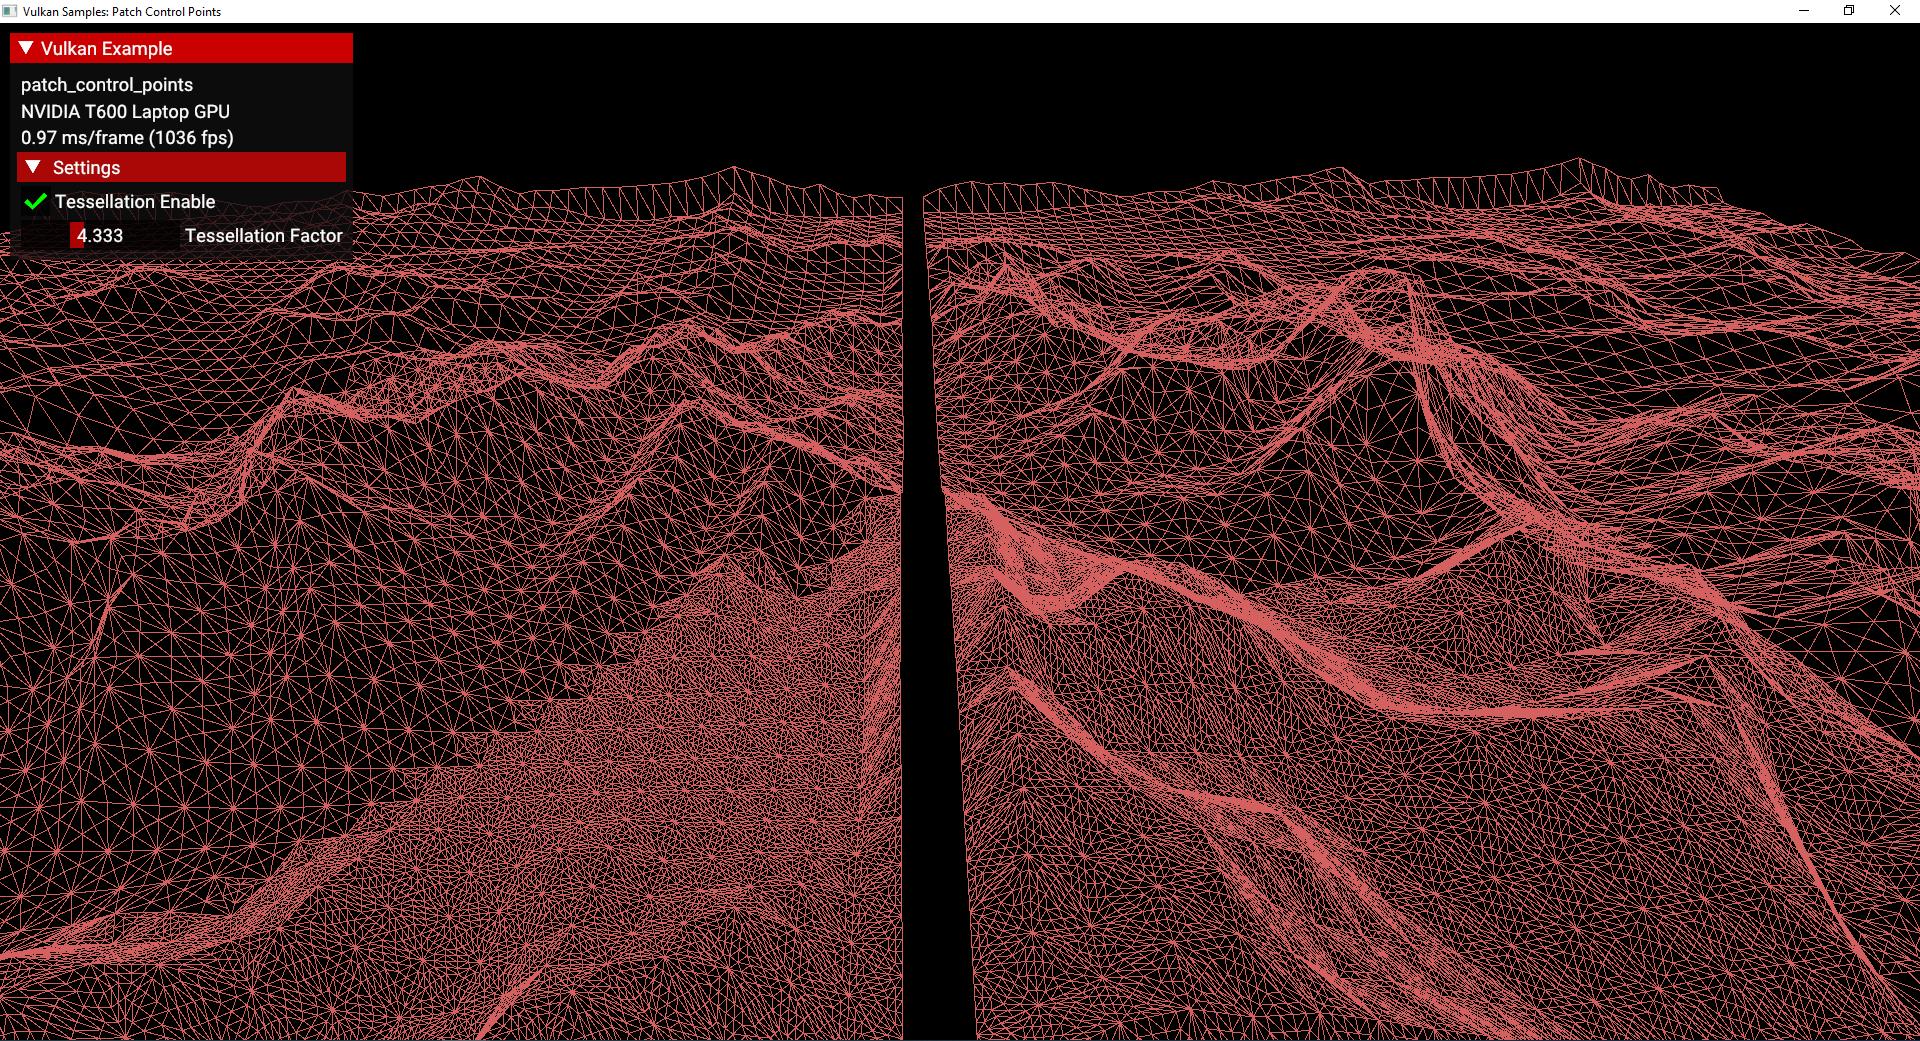
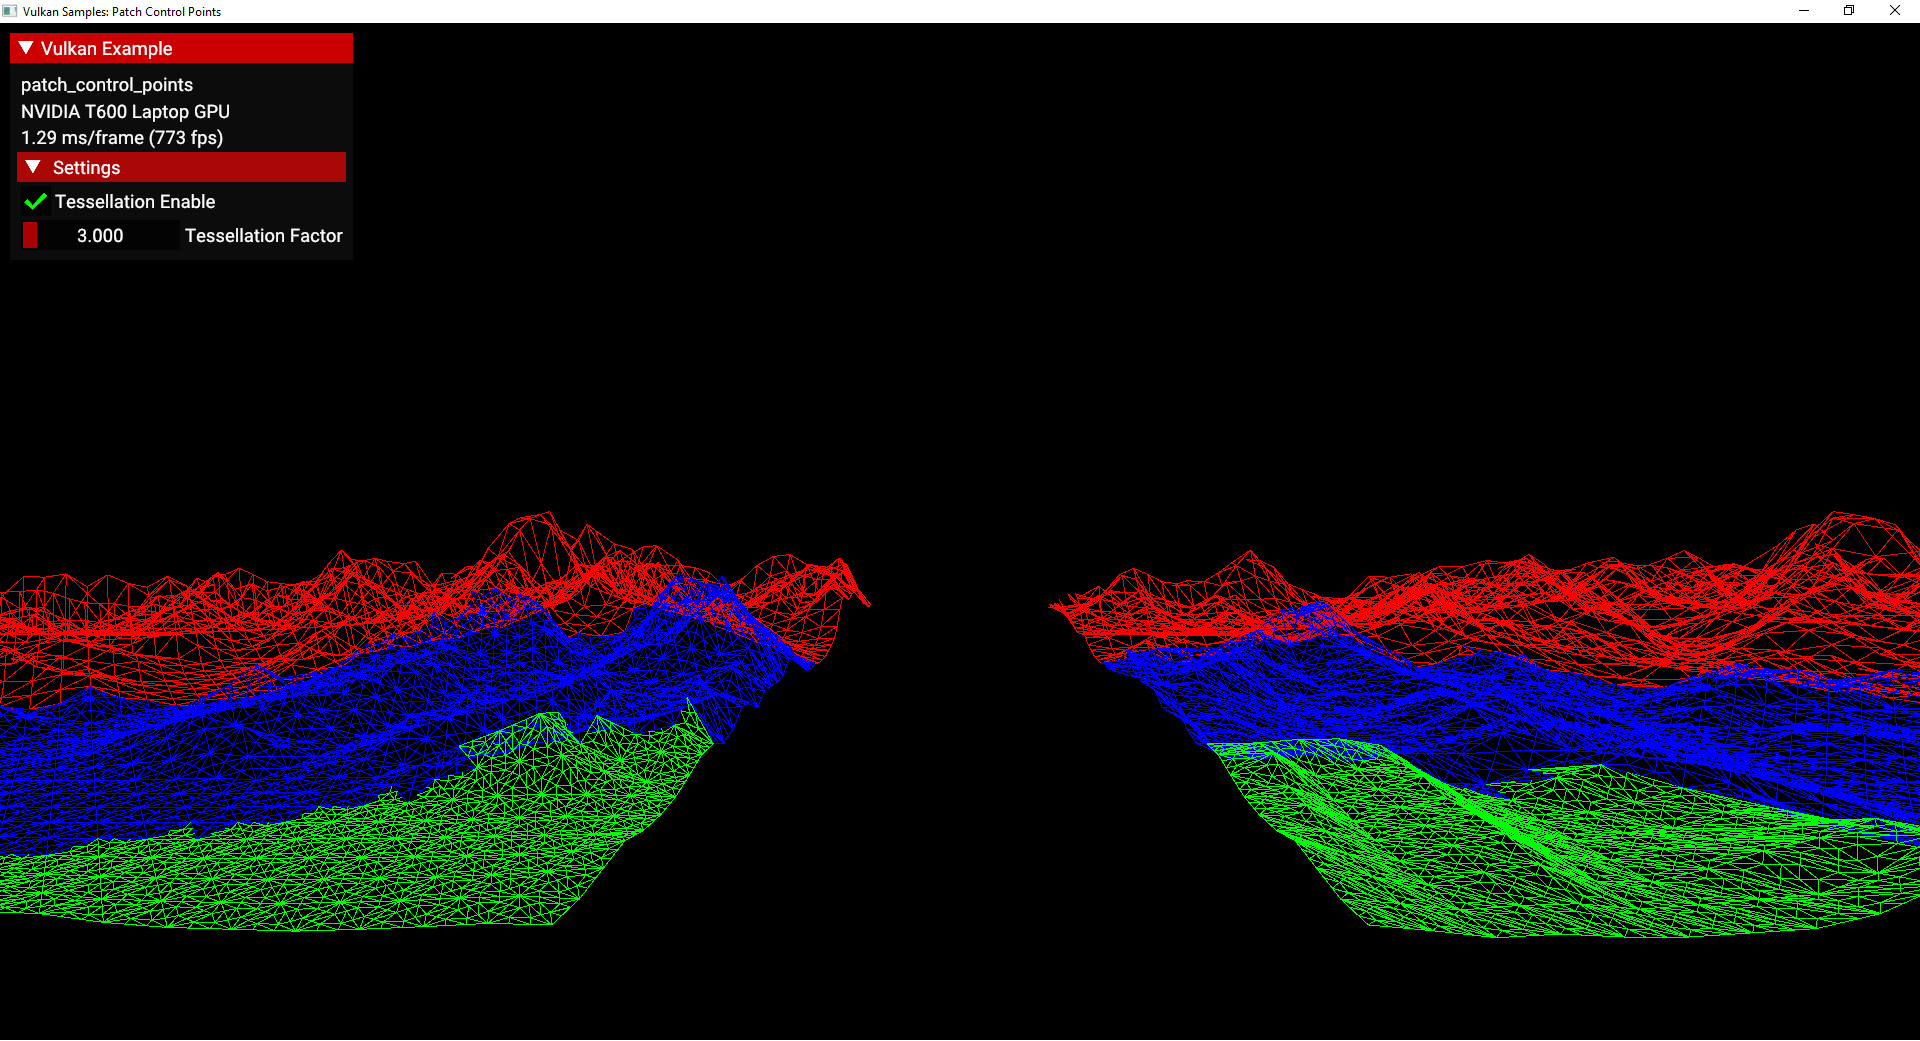
Updating the sample as commented in the review
Image of sample updated
Camera position updated
Tessellation enabled after running sample
Updated dynamically_tessellation and statically_tessellation names
Asset updated

diff --git a/samples/extensions/patch_control_points/patch_control_points.cpp b/samples/extensions/patch_control_points/patch_control_points.cpp
@@ -31,17 +31,17 @@ PatchControlPoints::~PatchControlPoints()
 	if (device)
 	{
 		uniform_buffers.common.reset();
-		uniform_buffers.dynamically_tessellation.reset();
-		uniform_buffers.statically_tessellation.reset();
+		uniform_buffers.dynamic_tessellation.reset();
+		uniform_buffers.static_tessellation.reset();
 
-		vkDestroyPipeline(get_device().get_handle(), pipeline.dynamically_tessellation, VK_NULL_HANDLE);
-		vkDestroyPipeline(get_device().get_handle(), pipeline.statically_tessellation, VK_NULL_HANDLE);
+		vkDestroyPipeline(get_device().get_handle(), pipeline.dynamic_tessellation, VK_NULL_HANDLE);
+		vkDestroyPipeline(get_device().get_handle(), pipeline.static_tessellation, VK_NULL_HANDLE);
 
-		vkDestroyPipelineLayout(get_device().get_handle(), pipeline_layouts.dynamically_tessellation, VK_NULL_HANDLE);
-		vkDestroyPipelineLayout(get_device().get_handle(), pipeline_layouts.statically_tessellation, VK_NULL_HANDLE);
+		vkDestroyPipelineLayout(get_device().get_handle(), pipeline_layouts.dynamic_tessellation, VK_NULL_HANDLE);
+		vkDestroyPipelineLayout(get_device().get_handle(), pipeline_layouts.static_tessellation, VK_NULL_HANDLE);
 
-		vkDestroyDescriptorSetLayout(get_device().get_handle(), descriptor_set_layouts.dynamically_tessellation, VK_NULL_HANDLE);
-		vkDestroyDescriptorSetLayout(get_device().get_handle(), descriptor_set_layouts.statically_tessellation, VK_NULL_HANDLE);
+		vkDestroyDescriptorSetLayout(get_device().get_handle(), descriptor_set_layouts.dynamic_tessellation, VK_NULL_HANDLE);
+		vkDestroyDescriptorSetLayout(get_device().get_handle(), descriptor_set_layouts.static_tessellation, VK_NULL_HANDLE);
 
 		vkDestroyDescriptorPool(get_device().get_handle(), descriptor_pool, VK_NULL_HANDLE);
 	}
@@ -59,7 +59,7 @@ bool PatchControlPoints::prepare(vkb::Platform &platform)
 	}
 
 	camera.type = vkb::CameraType::FirstPerson;
-	camera.set_position({-1.25f, 0.0f, 0.0f});
+	camera.set_position({-1.25f, -0.75f, 1.5f});
 	camera.set_perspective(60.0f, static_cast<float>(width) / static_cast<float>(height), 256.0f, 0.1f);
 
 	load_assets();
@@ -122,11 +122,11 @@ void PatchControlPoints::prepare_uniform_buffers()
                                                                  sizeof(ubo_common),
                                                                  VK_BUFFER_USAGE_UNIFORM_BUFFER_BIT,
                                                                  VMA_MEMORY_USAGE_CPU_TO_GPU);
-	uniform_buffers.dynamically_tessellation = std::make_unique<vkb::core::Buffer>(get_device(),
+	uniform_buffers.dynamic_tessellation = std::make_unique<vkb::core::Buffer>(get_device(),
 	                                                                               sizeof(ubo_tess),
 	                                                                               VK_BUFFER_USAGE_UNIFORM_BUFFER_BIT,
 	                                                                               VMA_MEMORY_USAGE_CPU_TO_GPU);
-	uniform_buffers.statically_tessellation  = std::make_unique<vkb::core::Buffer>(get_device(),
+	uniform_buffers.static_tessellation  = std::make_unique<vkb::core::Buffer>(get_device(),
                                                                                   sizeof(ubo_tess),
                                                                                   VK_BUFFER_USAGE_UNIFORM_BUFFER_BIT,
                                                                                   VMA_MEMORY_USAGE_CPU_TO_GPU);
@@ -153,10 +153,10 @@ void PatchControlPoints::update_uniform_buffers()
 	}
 
 	/* Dynamically tessellation */
-	uniform_buffers.dynamically_tessellation->convert_and_update(ubo_tess);
+	uniform_buffers.dynamic_tessellation->convert_and_update(ubo_tess);
 
 	/* Statically tessellation */
-	uniform_buffers.statically_tessellation->convert_and_update(ubo_tess);
+	uniform_buffers.static_tessellation->convert_and_update(ubo_tess);
 }
 
 /**s
@@ -264,31 +264,31 @@ void PatchControlPoints::create_pipelines()
 	graphics_create.stageCount          = static_cast<uint32_t>(shader_stages.size());
 	graphics_create.pStages             = shader_stages.data();
 
-	/* Specific setup of statically_tessellation pipeline */
+	/* Specific setup of static_tessellation pipeline */
 
 	constexpr uint32_t                    patch_control_points = 3;
 	VkPipelineTessellationStateCreateInfo tessellation_state =
 	    vkb::initializers::pipeline_tessellation_state_create_info(patch_control_points); /* static patch control points */
 	graphics_create.pTessellationState = &tessellation_state;
-	graphics_create.layout             = pipeline_layouts.statically_tessellation;
+	graphics_create.layout             = pipeline_layouts.static_tessellation;
 
-	VK_CHECK(vkCreateGraphicsPipelines(get_device().get_handle(), pipeline_cache, 1, &graphics_create, VK_NULL_HANDLE, &pipeline.statically_tessellation));
+	VK_CHECK(vkCreateGraphicsPipelines(get_device().get_handle(), pipeline_cache, 1, &graphics_create, VK_NULL_HANDLE, &pipeline.static_tessellation));
 
-	/* Specific setup of dynamically_tessellation pipeline  */
+	/* Specific setup of dynamic_tessellation pipeline  */
 
 	/*
 	 * patchControlPoints might be set with any valid value i.e. 0 < patchControlPoints <= 32
 	 * because it is set dynamically using vkCmdSetPatchControlPointsEXT
 	 */
 	tessellation_state.patchControlPoints = 1; /* set to 1 to demonstrate that value from vkCmdSetPatchControlPointsEXT is used */
-	graphics_create.layout                = pipeline_layouts.dynamically_tessellation;
+	graphics_create.layout                = pipeline_layouts.dynamic_tessellation;
 
 	/* Add patch control points dynamic state */
 	dynamic_state_enables.push_back(VK_DYNAMIC_STATE_PATCH_CONTROL_POINTS_EXT);
 	dynamic_state.pDynamicStates    = dynamic_state_enables.data();
 	dynamic_state.dynamicStateCount = static_cast<uint32_t>(dynamic_state_enables.size());
 
-	VK_CHECK(vkCreateGraphicsPipelines(get_device().get_handle(), pipeline_cache, 1, &graphics_create, VK_NULL_HANDLE, &pipeline.dynamically_tessellation));
+	VK_CHECK(vkCreateGraphicsPipelines(get_device().get_handle(), pipeline_cache, 1, &graphics_create, VK_NULL_HANDLE, &pipeline.dynamic_tessellation));
 }
 
 /**
@@ -333,44 +333,44 @@ void PatchControlPoints::build_command_buffers()
 
 		vkCmdBindDescriptorSets(draw_cmd_buffer,
 		                        VK_PIPELINE_BIND_POINT_GRAPHICS,
-		                        pipeline_layouts.statically_tessellation,
+		                        pipeline_layouts.static_tessellation,
 		                        0,
 		                        1,
-		                        &descriptor_sets.statically_tessellation,
+		                        &descriptor_sets.static_tessellation,
 		                        0,
 		                        nullptr);
 
 		push_const_block.direction = directions[0];
 		vkCmdPushConstants(draw_cmd_buffer,
-		                   pipeline_layouts.statically_tessellation,
+		                   pipeline_layouts.static_tessellation,
 		                   VK_SHADER_STAGE_VERTEX_BIT,
 		                   0,
 		                   sizeof(push_const_block),
 		                   &push_const_block);
 
-		vkCmdBindPipeline(draw_cmd_buffer, VK_PIPELINE_BIND_POINT_GRAPHICS, pipeline.statically_tessellation);
+		vkCmdBindPipeline(draw_cmd_buffer, VK_PIPELINE_BIND_POINT_GRAPHICS, pipeline.static_tessellation);
 
 		draw_model(model, draw_cmd_buffer);
 
 		//	dynamically tessellation
 		vkCmdBindDescriptorSets(draw_cmd_buffer,
 		                        VK_PIPELINE_BIND_POINT_GRAPHICS,
-		                        pipeline_layouts.dynamically_tessellation,
+		                        pipeline_layouts.dynamic_tessellation,
 		                        0,
 		                        1,
-		                        &descriptor_sets.dynamically_tessellation,
+		                        &descriptor_sets.dynamic_tessellation,
 		                        0,
 		                        nullptr);
 
 		push_const_block.direction = directions[1];
 		vkCmdPushConstants(draw_cmd_buffer,
-		                   pipeline_layouts.dynamically_tessellation,
+		                   pipeline_layouts.dynamic_tessellation,
 		                   VK_SHADER_STAGE_VERTEX_BIT,
 		                   0,
 		                   sizeof(push_const_block),
 		                   &push_const_block);
 
-		vkCmdBindPipeline(draw_cmd_buffer, VK_PIPELINE_BIND_POINT_GRAPHICS, pipeline.dynamically_tessellation);
+		vkCmdBindPipeline(draw_cmd_buffer, VK_PIPELINE_BIND_POINT_GRAPHICS, pipeline.dynamic_tessellation);
 
 		vkCmdSetPatchControlPointsEXT(draw_cmd_buffer, patch_control_points);
 
@@ -432,11 +432,11 @@ void PatchControlPoints::setup_descriptor_set_layout()
 	VK_CHECK(vkCreateDescriptorSetLayout(get_device().get_handle(),
 	                                     &descriptor_layout_create_info,
 	                                     nullptr,
-	                                     &descriptor_set_layouts.statically_tessellation));
+	                                     &descriptor_set_layouts.static_tessellation));
 
 	VkPipelineLayoutCreateInfo pipeline_layout_create_info =
 	    vkb::initializers::pipeline_layout_create_info(
-	        &descriptor_set_layouts.statically_tessellation,
+	        &descriptor_set_layouts.static_tessellation,
 	        1);
 
 	/* Pass scene node information via push constants */
@@ -449,7 +449,7 @@ void PatchControlPoints::setup_descriptor_set_layout()
 	VK_CHECK(vkCreatePipelineLayout(get_device().get_handle(),
 	                                &pipeline_layout_create_info,
 	                                nullptr,
-	                                &pipeline_layouts.statically_tessellation));
+	                                &pipeline_layouts.static_tessellation));
 
 	/* Second descriptor set */
 	set_layout_bindings = {
@@ -469,15 +469,15 @@ void PatchControlPoints::setup_descriptor_set_layout()
 	VK_CHECK(vkCreateDescriptorSetLayout(get_device().get_handle(),
 	                                     &descriptor_layout_create_info,
 	                                     nullptr,
-	                                     &descriptor_set_layouts.dynamically_tessellation));
+	                                     &descriptor_set_layouts.dynamic_tessellation));
 
-	pipeline_layout_create_info.pSetLayouts = &descriptor_set_layouts.dynamically_tessellation;
+	pipeline_layout_create_info.pSetLayouts = &descriptor_set_layouts.dynamic_tessellation;
 
 	VK_CHECK(vkCreatePipelineLayout(get_device().get_handle(),
 	                                //&pipeline_layout_create_info_2,
 	                                &pipeline_layout_create_info,
 	                                nullptr,
-	                                &pipeline_layouts.dynamically_tessellation));
+	                                &pipeline_layouts.dynamic_tessellation));
 }
 
 /**
@@ -490,24 +490,24 @@ void PatchControlPoints::create_descriptor_sets()
 	VkDescriptorSetAllocateInfo alloc_info =
 	    vkb::initializers::descriptor_set_allocate_info(
 	        descriptor_pool,
-	        &descriptor_set_layouts.statically_tessellation,
+	        &descriptor_set_layouts.static_tessellation,
 	        1);
 
 	VK_CHECK(vkAllocateDescriptorSets(get_device().get_handle(),
 	                                  &alloc_info,
-	                                  &descriptor_sets.statically_tessellation));
+	                                  &descriptor_sets.static_tessellation));
 
 	VkDescriptorBufferInfo matrix_common_buffer_descriptor = create_descriptor(*uniform_buffers.common);
-	VkDescriptorBufferInfo matrix_tess_buffer_descriptor   = create_descriptor(*uniform_buffers.statically_tessellation);
+	VkDescriptorBufferInfo matrix_tess_buffer_descriptor   = create_descriptor(*uniform_buffers.static_tessellation);
 
 	std::vector<VkWriteDescriptorSet> write_descriptor_sets = {
 	    vkb::initializers::write_descriptor_set(
-	        descriptor_sets.statically_tessellation,
+	        descriptor_sets.static_tessellation,
 	        VK_DESCRIPTOR_TYPE_UNIFORM_BUFFER,
 	        0,
 	        &matrix_common_buffer_descriptor),
 	    vkb::initializers::write_descriptor_set(
-	        descriptor_sets.statically_tessellation,
+	        descriptor_sets.static_tessellation,
 	        VK_DESCRIPTOR_TYPE_UNIFORM_BUFFER,
 	        1,
 	        &matrix_tess_buffer_descriptor)};
@@ -519,21 +519,21 @@ void PatchControlPoints::create_descriptor_sets()
 	alloc_info =
 	    vkb::initializers::descriptor_set_allocate_info(
 	        descriptor_pool,
-	        &descriptor_set_layouts.dynamically_tessellation,
+	        &descriptor_set_layouts.dynamic_tessellation,
 	        1);
 
-	VK_CHECK(vkAllocateDescriptorSets(get_device().get_handle(), &alloc_info, &descriptor_sets.dynamically_tessellation));
+	VK_CHECK(vkAllocateDescriptorSets(get_device().get_handle(), &alloc_info, &descriptor_sets.dynamic_tessellation));
 
-	matrix_tess_buffer_descriptor = create_descriptor(*uniform_buffers.dynamically_tessellation);
+	matrix_tess_buffer_descriptor = create_descriptor(*uniform_buffers.dynamic_tessellation);
 
 	write_descriptor_sets = {
 	    vkb::initializers::write_descriptor_set(
-	        descriptor_sets.dynamically_tessellation,
+	        descriptor_sets.dynamic_tessellation,
 	        VK_DESCRIPTOR_TYPE_UNIFORM_BUFFER,
 	        0,
 	        &matrix_common_buffer_descriptor),
 	    vkb::initializers::write_descriptor_set(
-	        descriptor_sets.dynamically_tessellation,
+	        descriptor_sets.dynamic_tessellation,
 	        VK_DESCRIPTOR_TYPE_UNIFORM_BUFFER,
 	        1,
 	        &matrix_tess_buffer_descriptor)};

diff --git a/samples/extensions/patch_control_points/patch_control_points.h b/samples/extensions/patch_control_points/patch_control_points.h
@@ -29,7 +29,7 @@ class PatchControlPoints : public ApiVulkanSample
   public:
 	struct
 	{
-		bool  tessellation = false;
+		bool  tessellation = true;
 		float tess_factor  = 3.0f;
 	} gui_settings;
 
@@ -49,33 +49,33 @@ class PatchControlPoints : public ApiVulkanSample
 
 	struct
 	{
-		VkDescriptorSetLayout statically_tessellation{VK_NULL_HANDLE};
-		VkDescriptorSetLayout dynamically_tessellation{VK_NULL_HANDLE};
+		VkDescriptorSetLayout static_tessellation{VK_NULL_HANDLE};
+		VkDescriptorSetLayout dynamic_tessellation{VK_NULL_HANDLE};
 	} descriptor_set_layouts;
 
 	struct
 	{
-		VkPipelineLayout statically_tessellation{VK_NULL_HANDLE};
-		VkPipelineLayout dynamically_tessellation{VK_NULL_HANDLE};
+		VkPipelineLayout static_tessellation{VK_NULL_HANDLE};
+		VkPipelineLayout dynamic_tessellation{VK_NULL_HANDLE};
 	} pipeline_layouts;
 
 	struct
 	{
-		VkDescriptorSet statically_tessellation{VK_NULL_HANDLE};
-		VkDescriptorSet dynamically_tessellation{VK_NULL_HANDLE};
+		VkDescriptorSet static_tessellation{VK_NULL_HANDLE};
+		VkDescriptorSet dynamic_tessellation{VK_NULL_HANDLE};
 	} descriptor_sets;
 
 	struct
 	{
-		VkPipeline statically_tessellation{VK_NULL_HANDLE};
-		VkPipeline dynamically_tessellation{VK_NULL_HANDLE};
+		VkPipeline static_tessellation{VK_NULL_HANDLE};
+		VkPipeline dynamic_tessellation{VK_NULL_HANDLE};
 	} pipeline;
 
 	struct
 	{
 		std::unique_ptr<vkb::core::Buffer> common;
-		std::unique_ptr<vkb::core::Buffer> statically_tessellation;
-		std::unique_ptr<vkb::core::Buffer> dynamically_tessellation;
+		std::unique_ptr<vkb::core::Buffer> static_tessellation;
+		std::unique_ptr<vkb::core::Buffer> dynamic_tessellation;
 	} uniform_buffers;
 
 	struct
